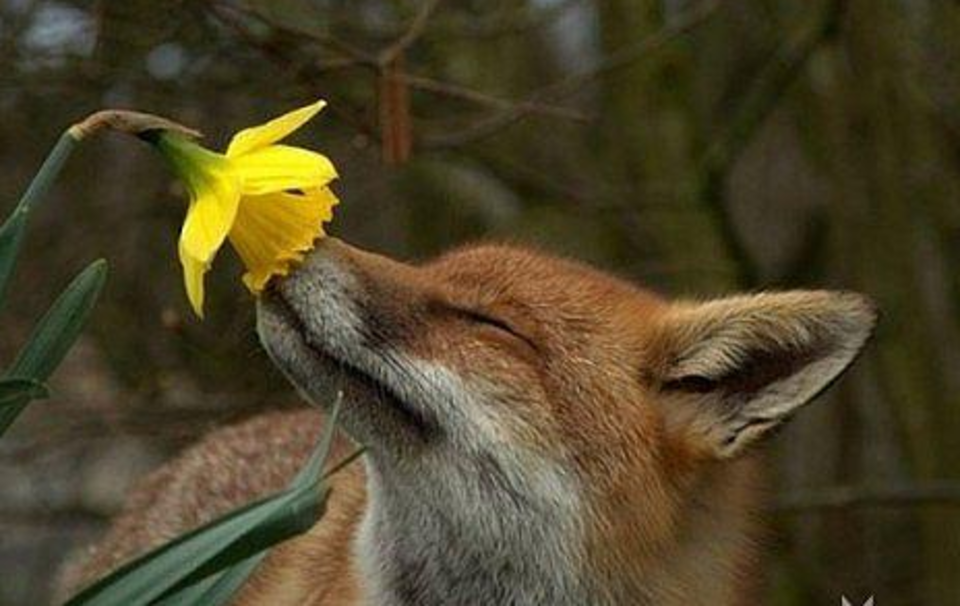
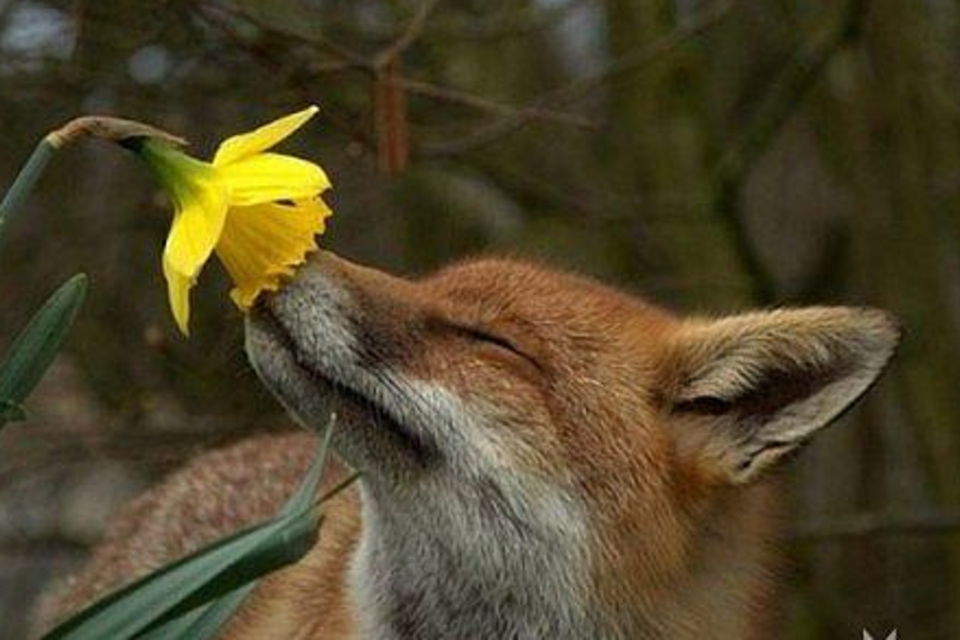
Interiors + footer in progress

diff --git a/app/assets/stylesheets/application.css.sass b/app/assets/stylesheets/application.css.sass
@@ -1,3 +1,6 @@
+//= require_self
+//= require_tree ./lib/
+
 @import "partials/*"
 @import "lib/*"
 @import "partials/lesson_table"
@@ -5,6 +8,9 @@
 body
   background-color: #f4ece1
   margin: 0px
+
+body, html
+  height: 100%
 
 h2
   font:
@@ -17,19 +23,27 @@ h2
 #document
   position: relative
   min-height: 100%
+  &:after
+    display: block
+    content: ""
 
 #wrapper-media
   margin: 0 auto
   width: 960px
 
 .content
+  position: relative
   margin: 0 auto
   width: 960px
+  display: table
+  min-height: 640px
 
 .gradient
+  position: absolute
   background: #dc6d48 //for old browsers
   background: linear-gradient(to right, #dc6d48, #5d2e49)
   padding: 10px
-  border: 0px solid #333
-  margin-top: 150px
-  margin-bottom: -175px
+  top: 153px
+  width: 100%
+
+

diff --git a/app/assets/stylesheets/partials/_footer.css.sass b/app/assets/stylesheets/partials/_footer.css.sass
@@ -1,0 +1,26 @@
+#footer
+  postition: absolute
+  width: 100%
+
+  .strip
+    background: #3e1f31
+    padding: 8px
+
+    .footer_text
+      margin: 0 auto
+      width: 960px
+      color: #8c8c8c
+      font:
+        family: Mirta
+        style: normal
+        size: 12px
+
+      .web-studio
+        float: right
+
+        a
+          color: #8c8c8c
+          font:
+            family: Mirta
+            style: normal
+            size: 12px

diff --git a/app/assets/stylesheets/lib/dance_styles.css.sass b/app/assets/stylesheets/lib/dance_styles.css.sass
@@ -10,7 +10,7 @@
   padding: 0
   float: left
   width: 260px
-  margin-top: 60px
+  margin-top: 25px
 .ui-tabs-vertical .ui-tabs-nav li
   clear: left
   width: 100%
@@ -48,4 +48,4 @@
 .dance_styles_bg
   position: absolute
   z-index: -1
-  right: 430px
+  right: 0px

diff --git a/app/assets/javascripts/application.js b/app/assets/javascripts/application.js
@@ -12,6 +12,7 @@
 //
 //= require jquery
 //= require jquery_ujs
+//= require bxslider
 //= require jquery.ui.tabs
 //= require jquery.turbolinks
 //= require turbolinks

diff --git a/app/models/image.rb b/app/models/image.rb
@@ -4,7 +4,7 @@ class Image < ActiveRecord::Base
 
   has_attached_file :path,
                     :styles => {
-                        :big => ["960x640", :png],
+                        :big => ["960x640#", :png],
                         :small => ["300x400#", :png],
                         :thumb => ["50x50#", :png]
                     },
